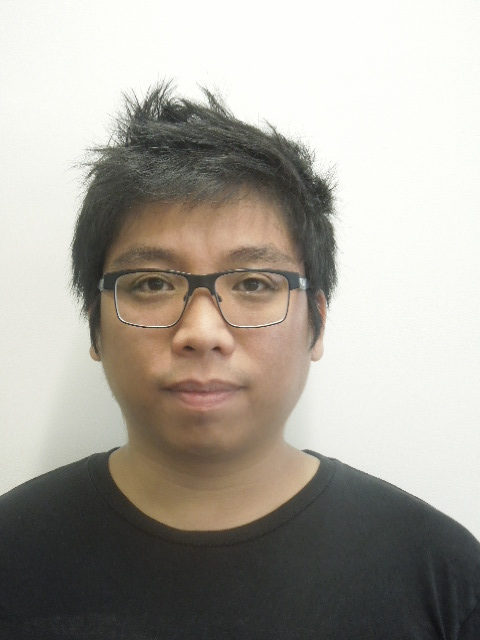
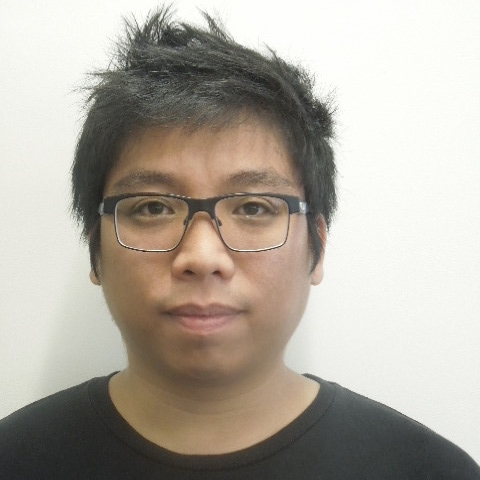
Move myself back to correct category and convert photo to square crop

diff --git a/layouts/index.html b/layouts/index.html
@@ -69,6 +69,7 @@
                 </li>
                 {{ end }}
             </ul>
+            <!--
             <h4>Alumni</h4>
             <ul id="og-grid" class="og-grid">
                 {{ range $.Site.Data.items.alumni }}
@@ -82,6 +83,7 @@
                 </li>
                 {{ end }}
             </ul>
+            -->
             {{end}} {{ partial "footer.html" . }}
         </div>
     </div>
